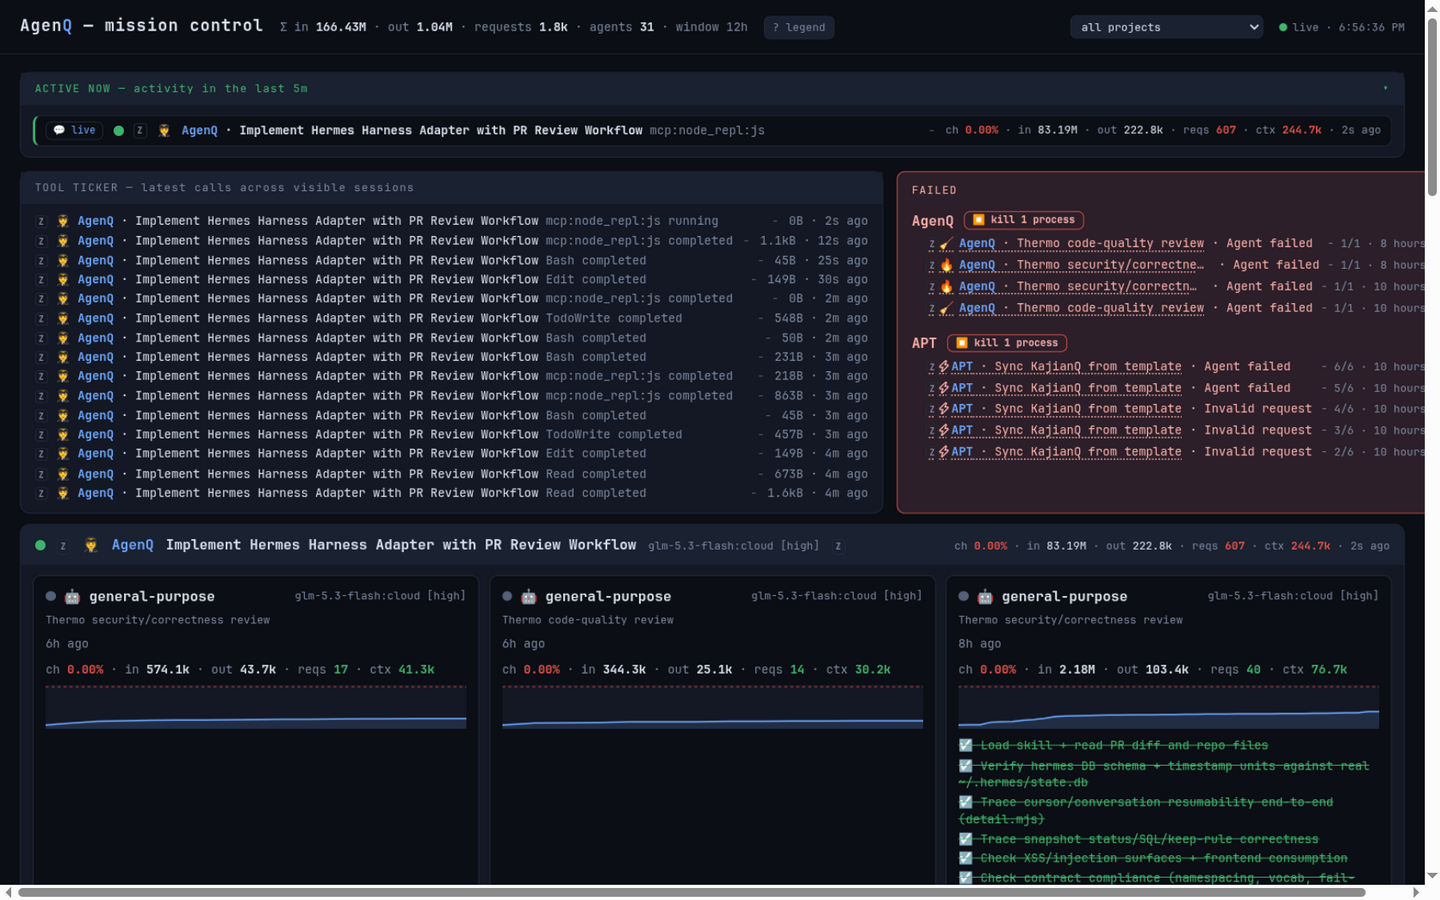
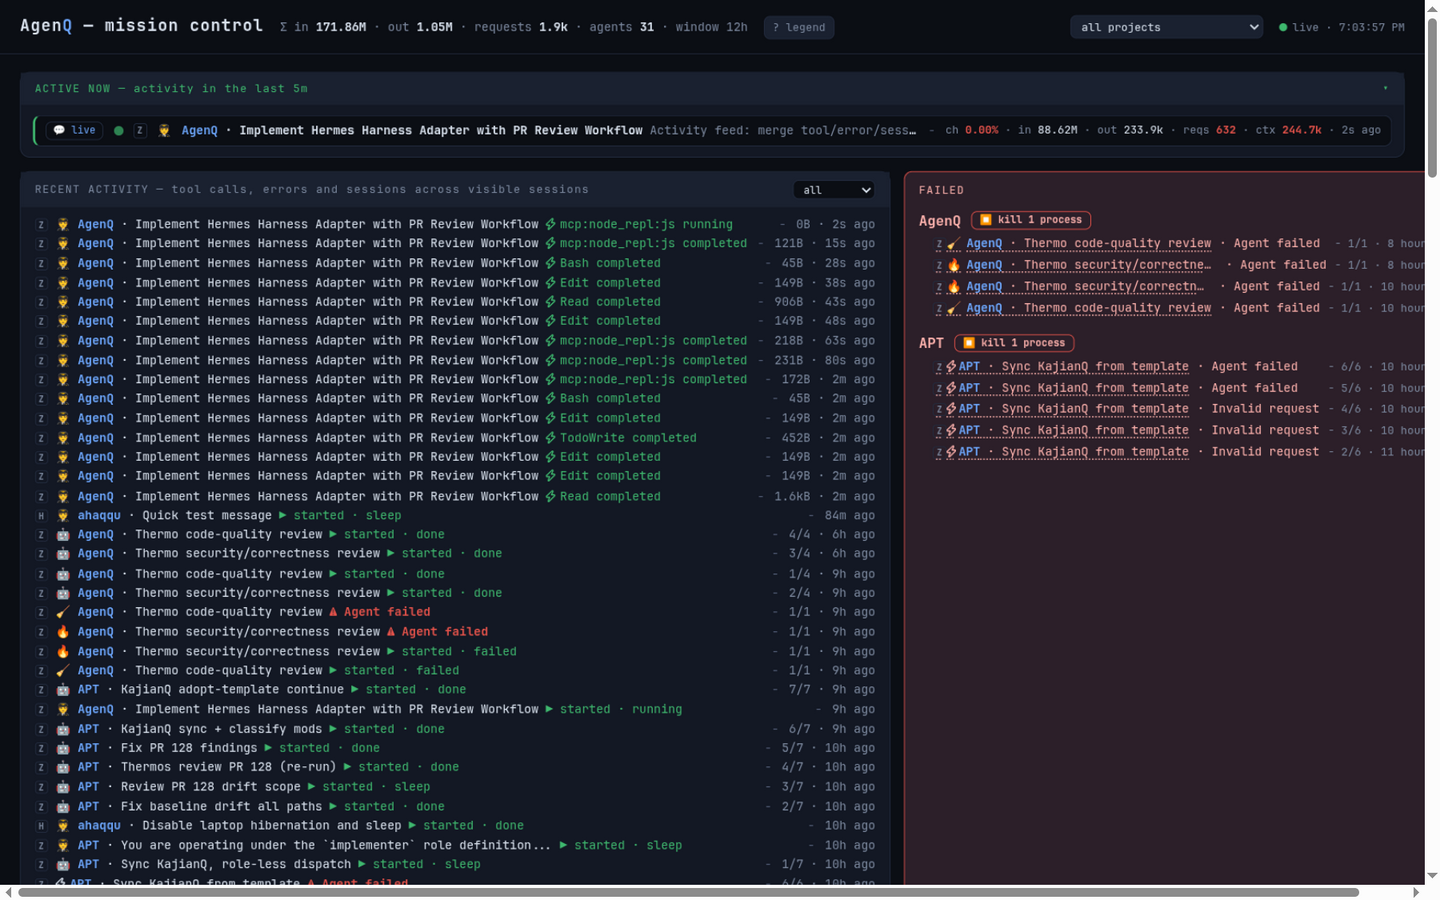
Tool ticker → recent-activity feed with category filter
The ticker now merges three activity kinds into one time-ordered stream:
tool calls (⚡, red when the call errored), session errors (⚠, from each
failed session's lastError) and session starts (▶, one per session with
its current status). A dropdown on the panel header filters the feed to
all / tools / errors / sessions — tools are just one category now, so a
quiet harness's errors and sessions stay visible even when a busy
harness floods the tool slots. Rows keep click-to-jump, tooltips and
flash-on-new. Fixed a first-render crash (prev.__feed before prev was
set). Screenshot retaken.

diff --git a/public/app.js b/public/app.js
@@ -99,6 +99,7 @@ function currentActivity(s) {
 
 let prev = null;
 let filterProject = "all";
+let activityFilter = "all"; // recent-activity feed: all | tool | error | session
 let harnessById = new Map(); // harness id -> { id, label, emoji, hasStop }
 let flashId = null; // banner click → highlight this card until flashUntil
 let flashUntil = 0;
@@ -213,6 +214,12 @@ $("ticker").addEventListener("click", (e) => {
 
 $("filter").addEventListener("change", () => {
   filterProject = $("filter").value;
+  poll();
+});
+
+// recent-activity category filter
+$("tickerfilter").addEventListener("change", () => {
+  activityFilter = $("tickerfilter").value;
   poll();
 });
 
@@ -402,23 +409,58 @@ function render(state) {
     if (c) drawSpark(c, s.sparkline);
   }
 
-  // ticker with flash-on-new
-  const prevTicker = prev?.ticker ?? [];
-  const known = new Set(prevTicker.map((t) => t.at + t.tool));
-  $("ticker").innerHTML = state.ticker.map((t) => {
-    const isNew = !known.has(t.at + t.tool) && prevTicker.length > 0;
-    const agent = byId.get(t.sessionId);
-    // same tooltip vocabulary as the chips and FAILED rows: full project,
-    // role, instance and brief — plus what the tool call actually was
-    const tip = (agent ? fullLabel(agent) : t.sessionId) +
-      ` — ${prettyTool(t.tool)}` +
-      (t.status ? ` · ${t.status}` : "") +
-      (t.outputBytes != null ? ` · ${fmt(t.outputBytes)}B` : "");
-    const right = [t.outputBytes != null ? `${fmt(t.outputBytes)}B` : "", ago(t.at)].filter(Boolean).join(" · ");
-    return `<li class="${isNew ? "new" : ""}" data-target="${esc(t.sessionId)}" title="${esc(tip)}"><span class="l">${agent ? harnessMark(agent) + " " + roleIcon(agent) + " " + labelHtml(agent) : harnessMark(t.harness ?? t.sessionId) + " session"} <span class="act">${esc(prettyTool(t.tool))} ${t.status ?? ""}</span></span><span class="dash">-</span><span class="r">${esc(tagged(right, agent))}</span></li>`;
+  // recent-activity feed: tool calls + session errors + session starts,
+  // merged into one time-ordered stream. `activityFilter` narrows it to a
+  // category; flash-on-new keys on kind+at+text so only genuinely new rows
+  // animate, and rows jump to their card on click as before.
+  const feed = [];
+  for (const t of state.ticker) {
+    feed.push({ kind: "tool", at: t.at, t, agent: byId.get(t.sessionId) });
+  }
+  for (const s of state.sessions) {
+    if (s.status === "failed" && s.lastError) {
+      feed.push({ kind: "error", at: s.lastError.at ?? s.lastAt ?? 0, s });
+    }
+    feed.push({ kind: "session", at: s.firstAt ?? s.lastAt ?? 0, s });
+  }
+  feed.sort((a, b) => (b.at ?? 0) - (a.at ?? 0));
+  const shown = activityFilter === "all" ? feed : feed.filter((f) => f.kind === activityFilter);
+  const prevFeed = prev?.__feed ?? [];
+  const knownFeed = new Set(prevFeed.map((f) => f.kind + ":" + f.at + ":" + (f.t?.tool ?? f.s?.id)));
+  $("ticker").innerHTML = shown.slice(0, 40).map((f) => {
+    const isNew = !knownFeed.has(f.kind + ":" + f.at + ":" + (f.t?.tool ?? f.s?.id)) && prevFeed.length > 0;
+    let l, r, tip;
+    if (f.kind === "tool") {
+      const t = f.t, agent = f.agent;
+      // same tooltip vocabulary as the chips and FAILED rows: full project,
+      // role, instance and brief — plus what the tool call actually was
+      tip = (agent ? fullLabel(agent) : t.sessionId) +
+        ` — ${prettyTool(t.tool)}` +
+        (t.status ? ` · ${t.status}` : "") +
+        (t.outputBytes != null ? ` · ${fmt(t.outputBytes)}B` : "");
+      const err = t.status && t.status !== "completed" && t.status !== "running" && t.status !== "pending";
+      l = (agent ? harnessMark(agent) + " " + roleIcon(agent) + " " + labelHtml(agent) : harnessMark(t.harness ?? t.sessionId) + " session") +
+        ` <span class="act ${err ? "errmark" : "okmark"}">⚡ ${esc(prettyTool(t.tool))} ${t.status ?? ""}</span>`;
+      r = [t.outputBytes != null ? `${fmt(t.outputBytes)}B` : "", ago(t.at)].filter(Boolean).join(" · ");
+      return `<li class="${isNew ? "new" : ""}" data-target="${esc(t.sessionId)}" title="${esc(tip)}"><span class="l">${l}</span><span class="dash">-</span><span class="r">${esc(tagged(r, f.agent))}</span></li>`;
+    }
+    if (f.kind === "error") {
+      const s = f.s;
+      tip = fullLabel(s) + ` — ${humanType(s.lastError.type)}: ${s.lastError.message ?? ""}`;
+      l = harnessMark(s) + " " + roleIcon(s) + " " + labelHtml(s) +
+        ` <span class="act errmark">⚠ ${esc(humanType(s.lastError.type))}</span>`;
+      r = ago(f.at);
+      return `<li class="${isNew ? "new" : ""}" data-target="${esc(s.id)}" title="${esc(tip)}"><span class="l">${l}</span><span class="dash">-</span><span class="r">${esc(tagged(r, s))}</span></li>`;
+    }
+    const s = f.s;
+    tip = fullLabel(s) + ` — session started ${new Date(f.at).toLocaleString()}, now ${s.status}`;
+    l = harnessMark(s) + " " + roleIcon(s) + " " + labelHtml(s) +
+      ` <span class="act okmark">▶ started · ${esc(s.status)}</span>`;
+    r = ago(f.at);
+    return `<li class="${isNew ? "new" : ""}" data-target="${esc(s.id)}" title="${esc(tip)}"><span class="l">${l}</span><span class="dash">-</span><span class="r">${esc(tagged(r, s))}</span></li>`;
   }).join("");
-
   prev = state;
+  prev.__feed = feed;
 }
 
 async function poll() {

diff --git a/public/index.html b/public/index.html
@@ -150,7 +150,13 @@
   ul.todos li.in_progress { color: var(--text); }
   .err { margin-top: 8px; font-size: 11px; color: #ffb3ae; }
   .ticker { margin-top: 18px; border: 1px solid var(--line); border-radius: 10px; background: var(--panel); }
-  .ticker .thead { padding: 8px 14px; background: var(--panel2); color: var(--dim); font-size: 11px; letter-spacing: 1px; }
+  .ticker .thead { display: flex; align-items: center; gap: 10px; padding: 8px 14px; background: var(--panel2); color: var(--dim); font-size: 11px; letter-spacing: 1px; }
+  #tickerfilter {
+    margin-left: auto; background: var(--bg); color: var(--text);
+    border: 1px solid var(--line); border-radius: 6px; font: inherit; font-size: 10px; padding: 1px 6px;
+  }
+  .ticker li .act.okmark { color: var(--ok); }
+  .ticker li .act.errmark { color: var(--fail); font-weight: 700; }
   .ticker ul { list-style: none; margin: 0; padding: 8px 14px 10px; font-size: 12px; }
   .ticker li { display: flex; gap: 10px; padding: 1px 0; color: var(--dim); cursor: pointer; align-items: baseline; }
   .ticker li:hover { background: var(--panel2); }
@@ -229,8 +235,15 @@
     <div class="activebar" id="activebar"></div>
   </div>
   <div class="duo">
-    <div class="ticker">
-      <div class="thead">TOOL TICKER — latest calls across visible sessions</div>
+    <div class="ticker" id="tickerpanel">
+      <div class="thead">RECENT ACTIVITY — tool calls, errors and sessions across visible sessions
+        <select id="tickerfilter" title="filter the activity feed">
+          <option value="all">all</option>
+          <option value="tool">tools</option>
+          <option value="error">errors</option>
+          <option value="session">sessions</option>
+        </select>
+      </div>
       <ul id="ticker"></ul>
     </div>
     <div class="alert" id="alert">⚠ rate-limited / failed agent detected</div>
